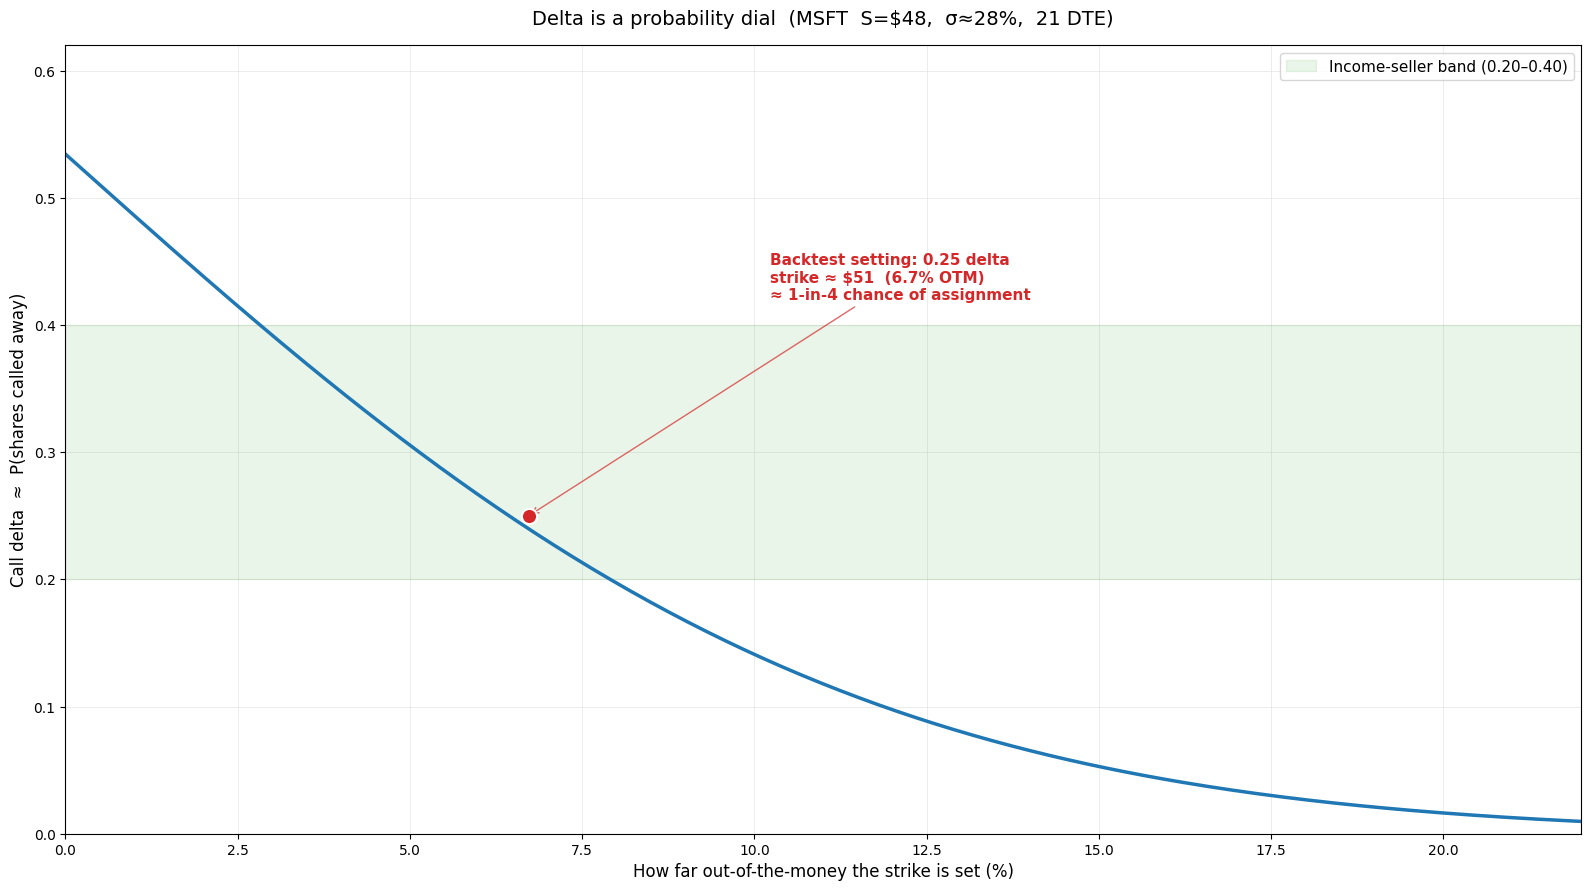
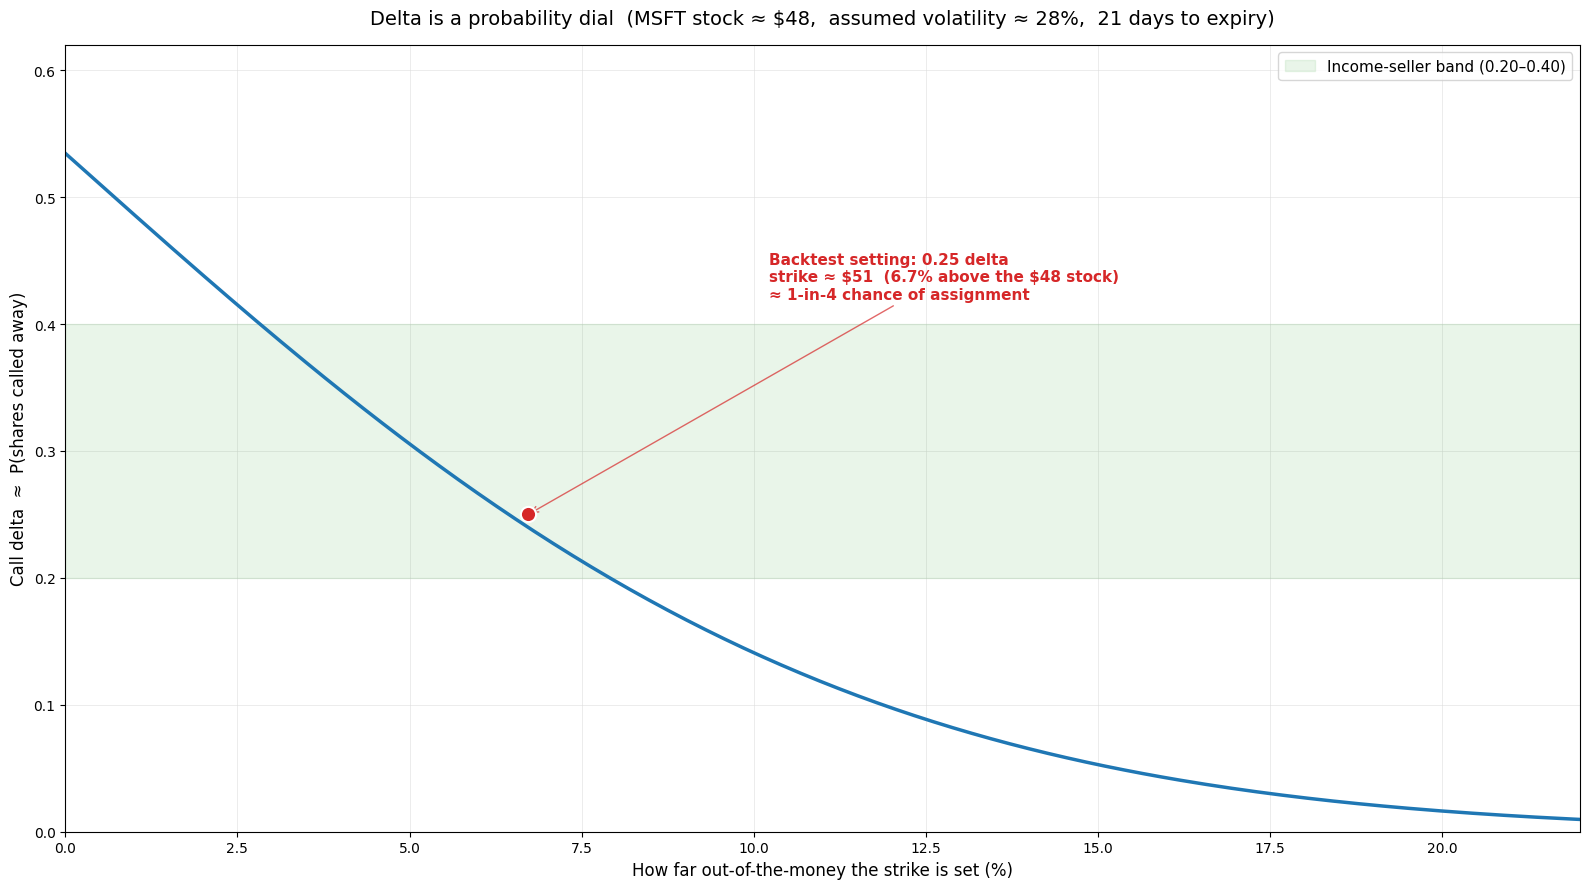
fig6: de-jargon the delta-dial title so spot isn't misread as strike
The title's "MSFT  S=$48,  σ≈28%,  21 DTE" reads as a strike/value
inconsistency to a non-specialist (S is spot ≈$48; the 0.25-delta
strike is $51, 6.7% above spot — consistent, just cryptically
labelled). Plain-language the title (stock ≈ $48, assumed volatility
≈ 28%, 21 days to expiry) and make the annotation state the strike
relative to the stock ("$51, 6.7% above the $48 stock"). Tutorial
fig6 alt text de-jargoned to match.

Also escaped the annotation's two "$" as "\$" — matplotlib parses a
"$...$" pair as mathtext and was raising on render.

diff --git a/make_figures.py b/make_figures.py
@@ -494,7 +494,7 @@ def fig6_delta_dial(prices: NDArray[np.float64]) -> Figure:
                edgecolors="white", linewidths=1.5)
     ax.annotate(
         f"Backtest setting: 0.25 delta\n"
-        f"strike ≈ ${k25:,.0f}  ({otm25:.1f}% OTM)\n"
+        f"strike ≈ \\${k25:,.0f}  ({otm25:.1f}% above the \\${S:,.0f} stock)\n"
         f"≈ 1-in-4 chance of assignment",
         xy=(otm25, 0.25),
         xytext=(otm25 + 3.5, 0.42),
@@ -507,7 +507,9 @@ def fig6_delta_dial(prices: NDArray[np.float64]) -> Figure:
     ax.set_xlabel("How far out-of-the-money the strike is set (%)", fontsize=12)
     ax.set_ylabel("Call delta  ≈  P(shares called away)", fontsize=12)
     ax.set_title(
-        f"Delta is a probability dial  (MSFT  S=${S:,.0f},  σ≈{sigma * 100:.0f}%,  21 DTE)",
+        f"Delta is a probability dial  "
+        f"(MSFT stock ≈ ${S:,.0f},  assumed volatility ≈ {sigma * 100:.0f}%,  "
+        f"21 days to expiry)",
         fontsize=14,
         pad=15,
     )

diff --git a/tutorial_covered_call_backtest.md b/tutorial_covered_call_backtest.md
@@ -257,7 +257,7 @@ Delta (Δ) is one of the most misunderstood Greek letters in finance.
 
 For income strategies, we typically sell 0.20Δ to 0.40Δ strikes (low probability of assignment).
 
-![Black-Scholes call delta plotted against how far out-of-the-money the strike is set, for MSFT at the first sample price (S≈$48), σ≈28%, 21 DTE. The curve falls monotonically from ≈0.54 at-the-money toward zero by ~20% OTM. A shaded horizontal band marks the 0.20–0.40 income-seller zone; a red dot marks the 0.25Δ strike, which lands ≈7% OTM.](docs/figures/06_delta_dial.png)
+![Black-Scholes call delta plotted against how far out-of-the-money the strike is set, for MSFT with the stock at the first sample price (≈$48), assumed volatility ≈28%, 21 days to expiry. The curve falls monotonically from ≈0.54 at-the-money toward zero by ~20% out-of-the-money. A shaded horizontal band marks the 0.20–0.40 income-seller zone; a red dot marks the 0.25-delta strike, which lands ≈7% above the $48 stock (≈$51).](docs/figures/06_delta_dial.png)
 
 *The dial as a curve. Delta is monotone-decreasing in strike, so "pick a target delta" and "pick a strike distance" are the same decision viewed from two ends. The 0.20–0.40 band is wide in delta but narrow in strike distance — a few percent of moneyness covers the whole income-seller range, which is why small volatility errors move the effective delta more than you'd expect.*
 
